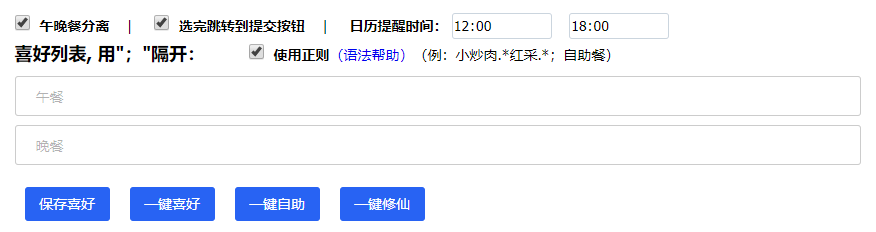
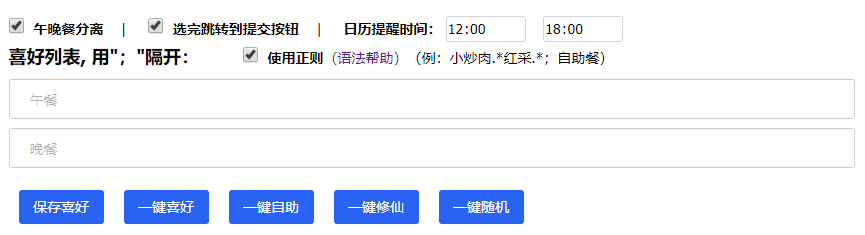
升级：版本至1.3.1

diff --git a/心动网络选餐脚本.user.js b/心动网络选餐脚本.user.js
@@ -1,7 +1,7 @@
 // ==UserScript==
 // @name         心动网络选餐脚本
 // @namespace    https://github.com/xuanblue/XDMealOrderScript
-// @version      1.3.0
+// @version      1.3.1
 // @description  便捷个性化辅助选餐；保存选餐结果。由https://greasyfork.org/zh-CN/scripts/372414-%E9%80%89%E9%A5%AD加工丰富而来。
 // @author       xuanbang
 // @contribution xiedi

diff --git a/README.md b/README.md
@@ -15,6 +15,7 @@
 * “一键喜好” &nbsp;&nbsp;  根据自定义喜好顺序个性化选餐。支持普通文本和正则模式（例：小炒肉.\*红采；可精确到菜品+供应商）
 * “一键自助”   一键选择自助餐
 * “一键修仙”   一键选择不吃
+* “一键随机”   一键随机选择
 * “导出文本”   将本次选餐信息以文本格式导出下载
 * “导出日历”   将本次选餐信息以日历文件导出下载，方便导入日历软件查看
 * 记忆部门、姓名信息，不再需要每次选择
